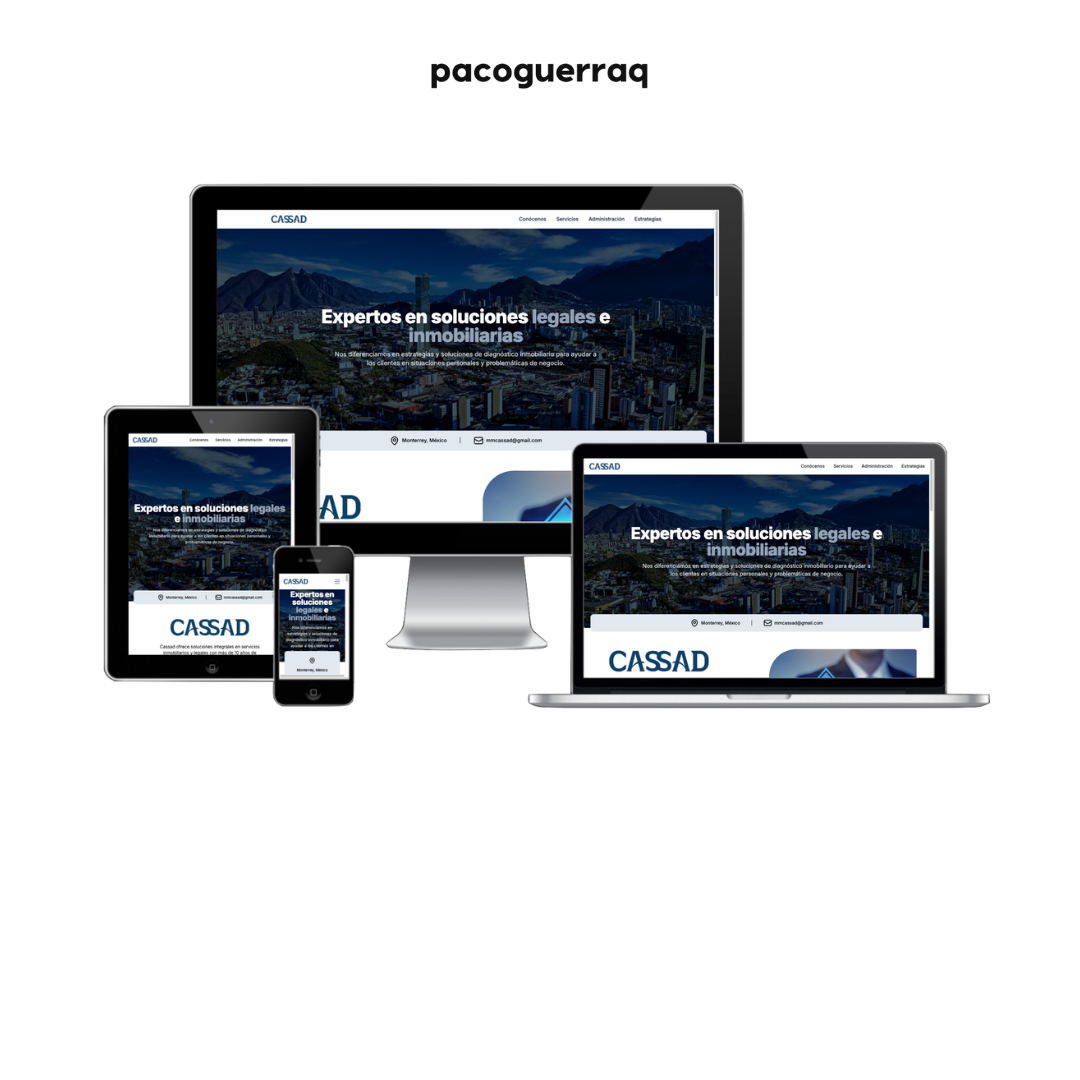
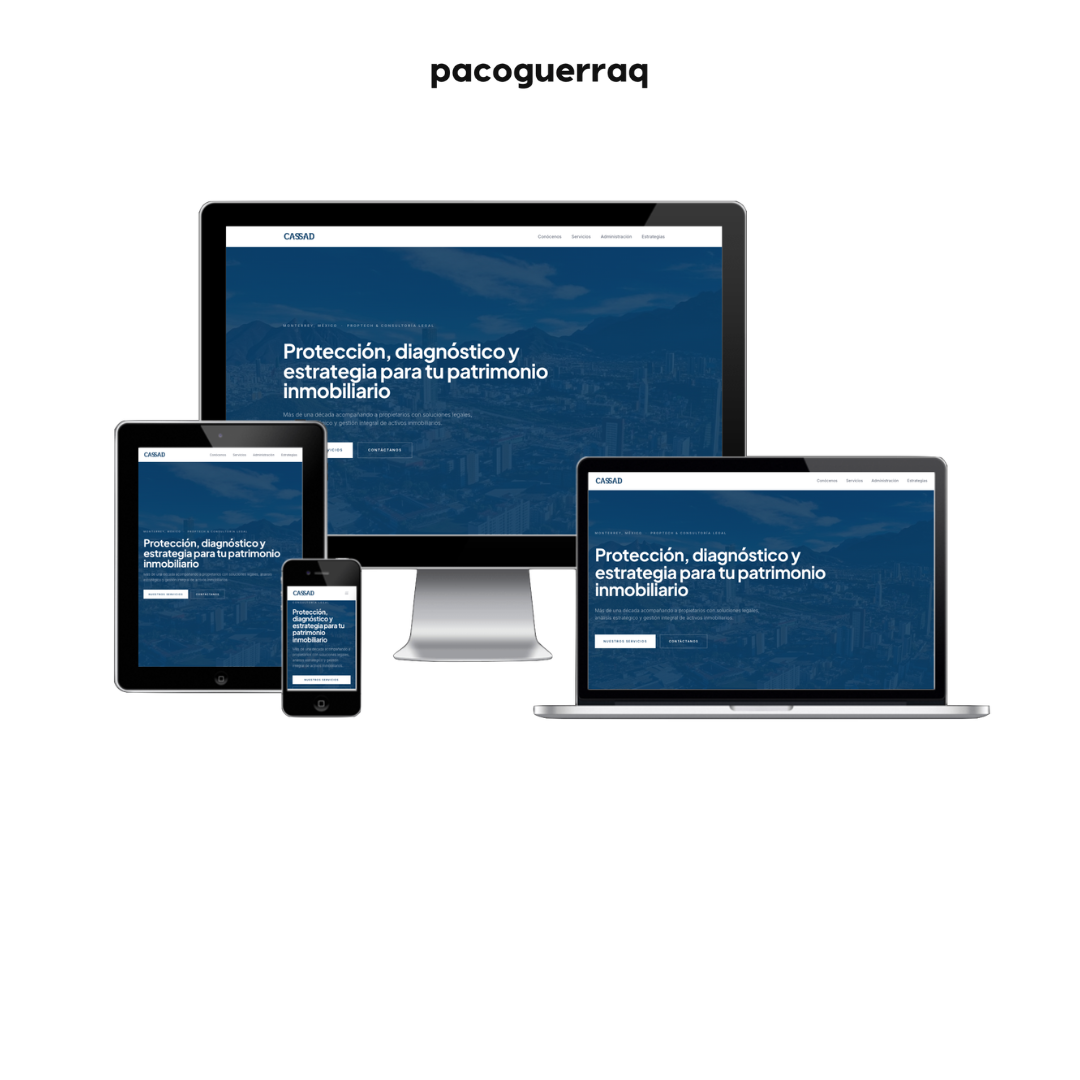
cassad update

Changed region(s): [[0.0917, 0.1528, 0.9167, 0.6722]]

diff --git a/assets/assets.ts b/assets/assets.ts
@@ -342,7 +342,7 @@ export const workData: WorkItem[] = [
         description: 'work.projects.cassad.description',
         techStack: ['Next.js', 'TypeScript', 'Tailwind CSS', 'shadcn/ui', 'Vercel'],
         bgImage: '/cassad.png',
-        link: "https://cassad.vercel.app/",
+        link: "https://www.cassad.com.mx/",
     },
     // {
     //     title: 'ConTagg',
